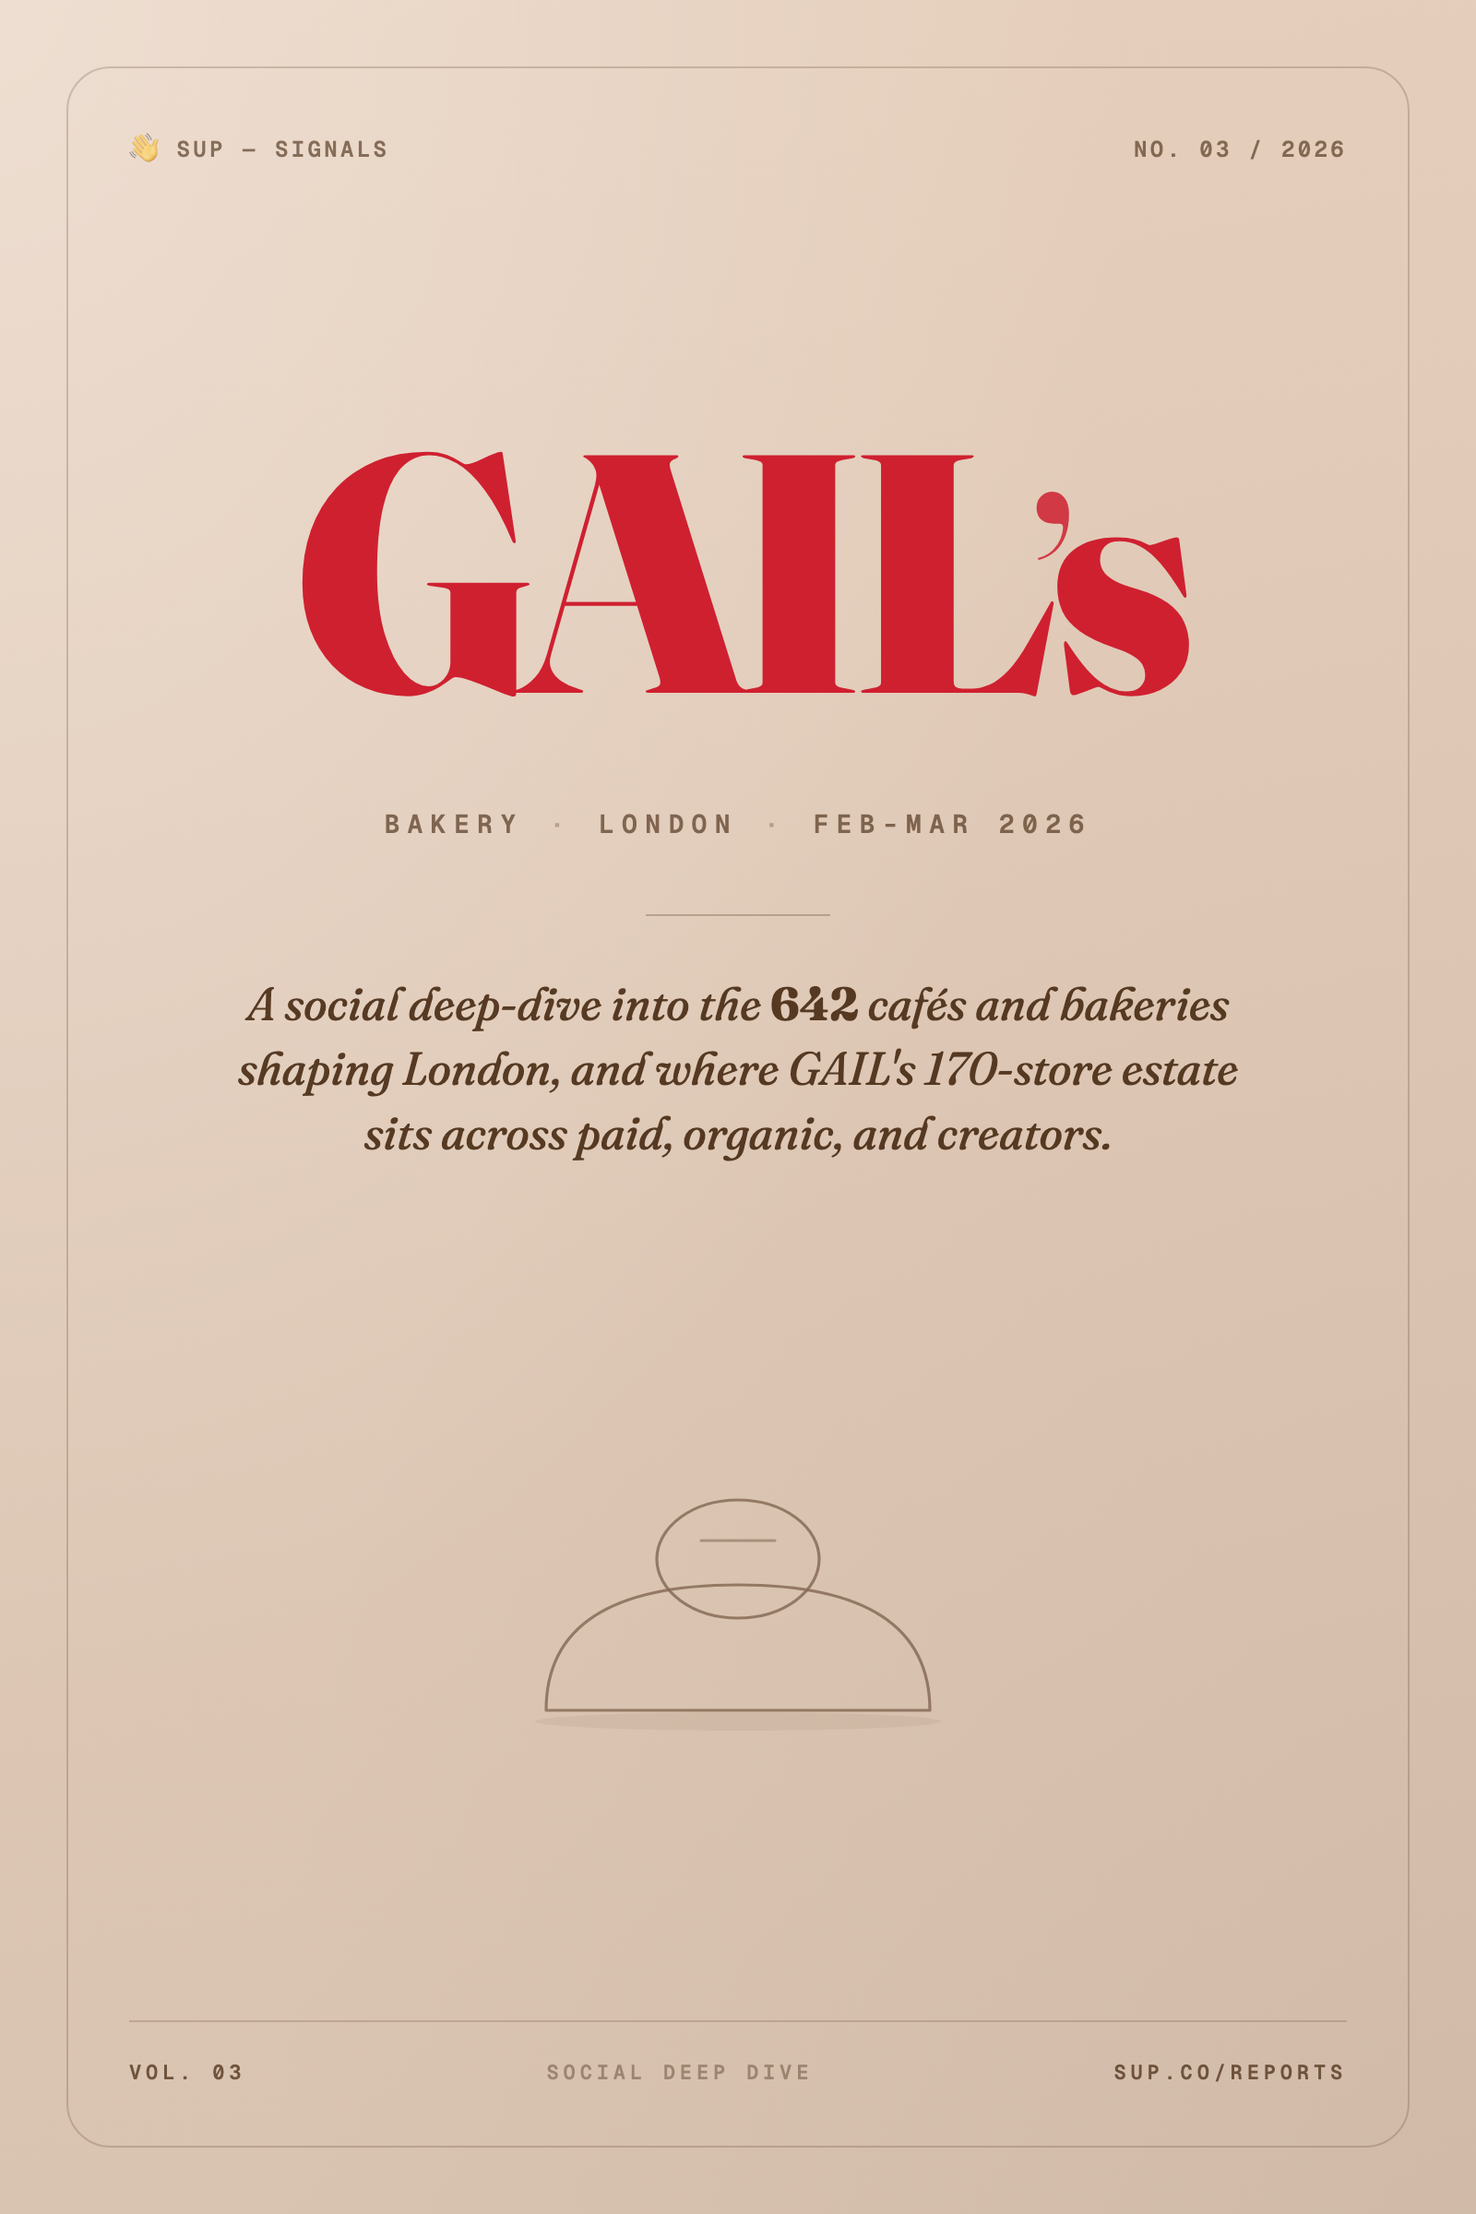
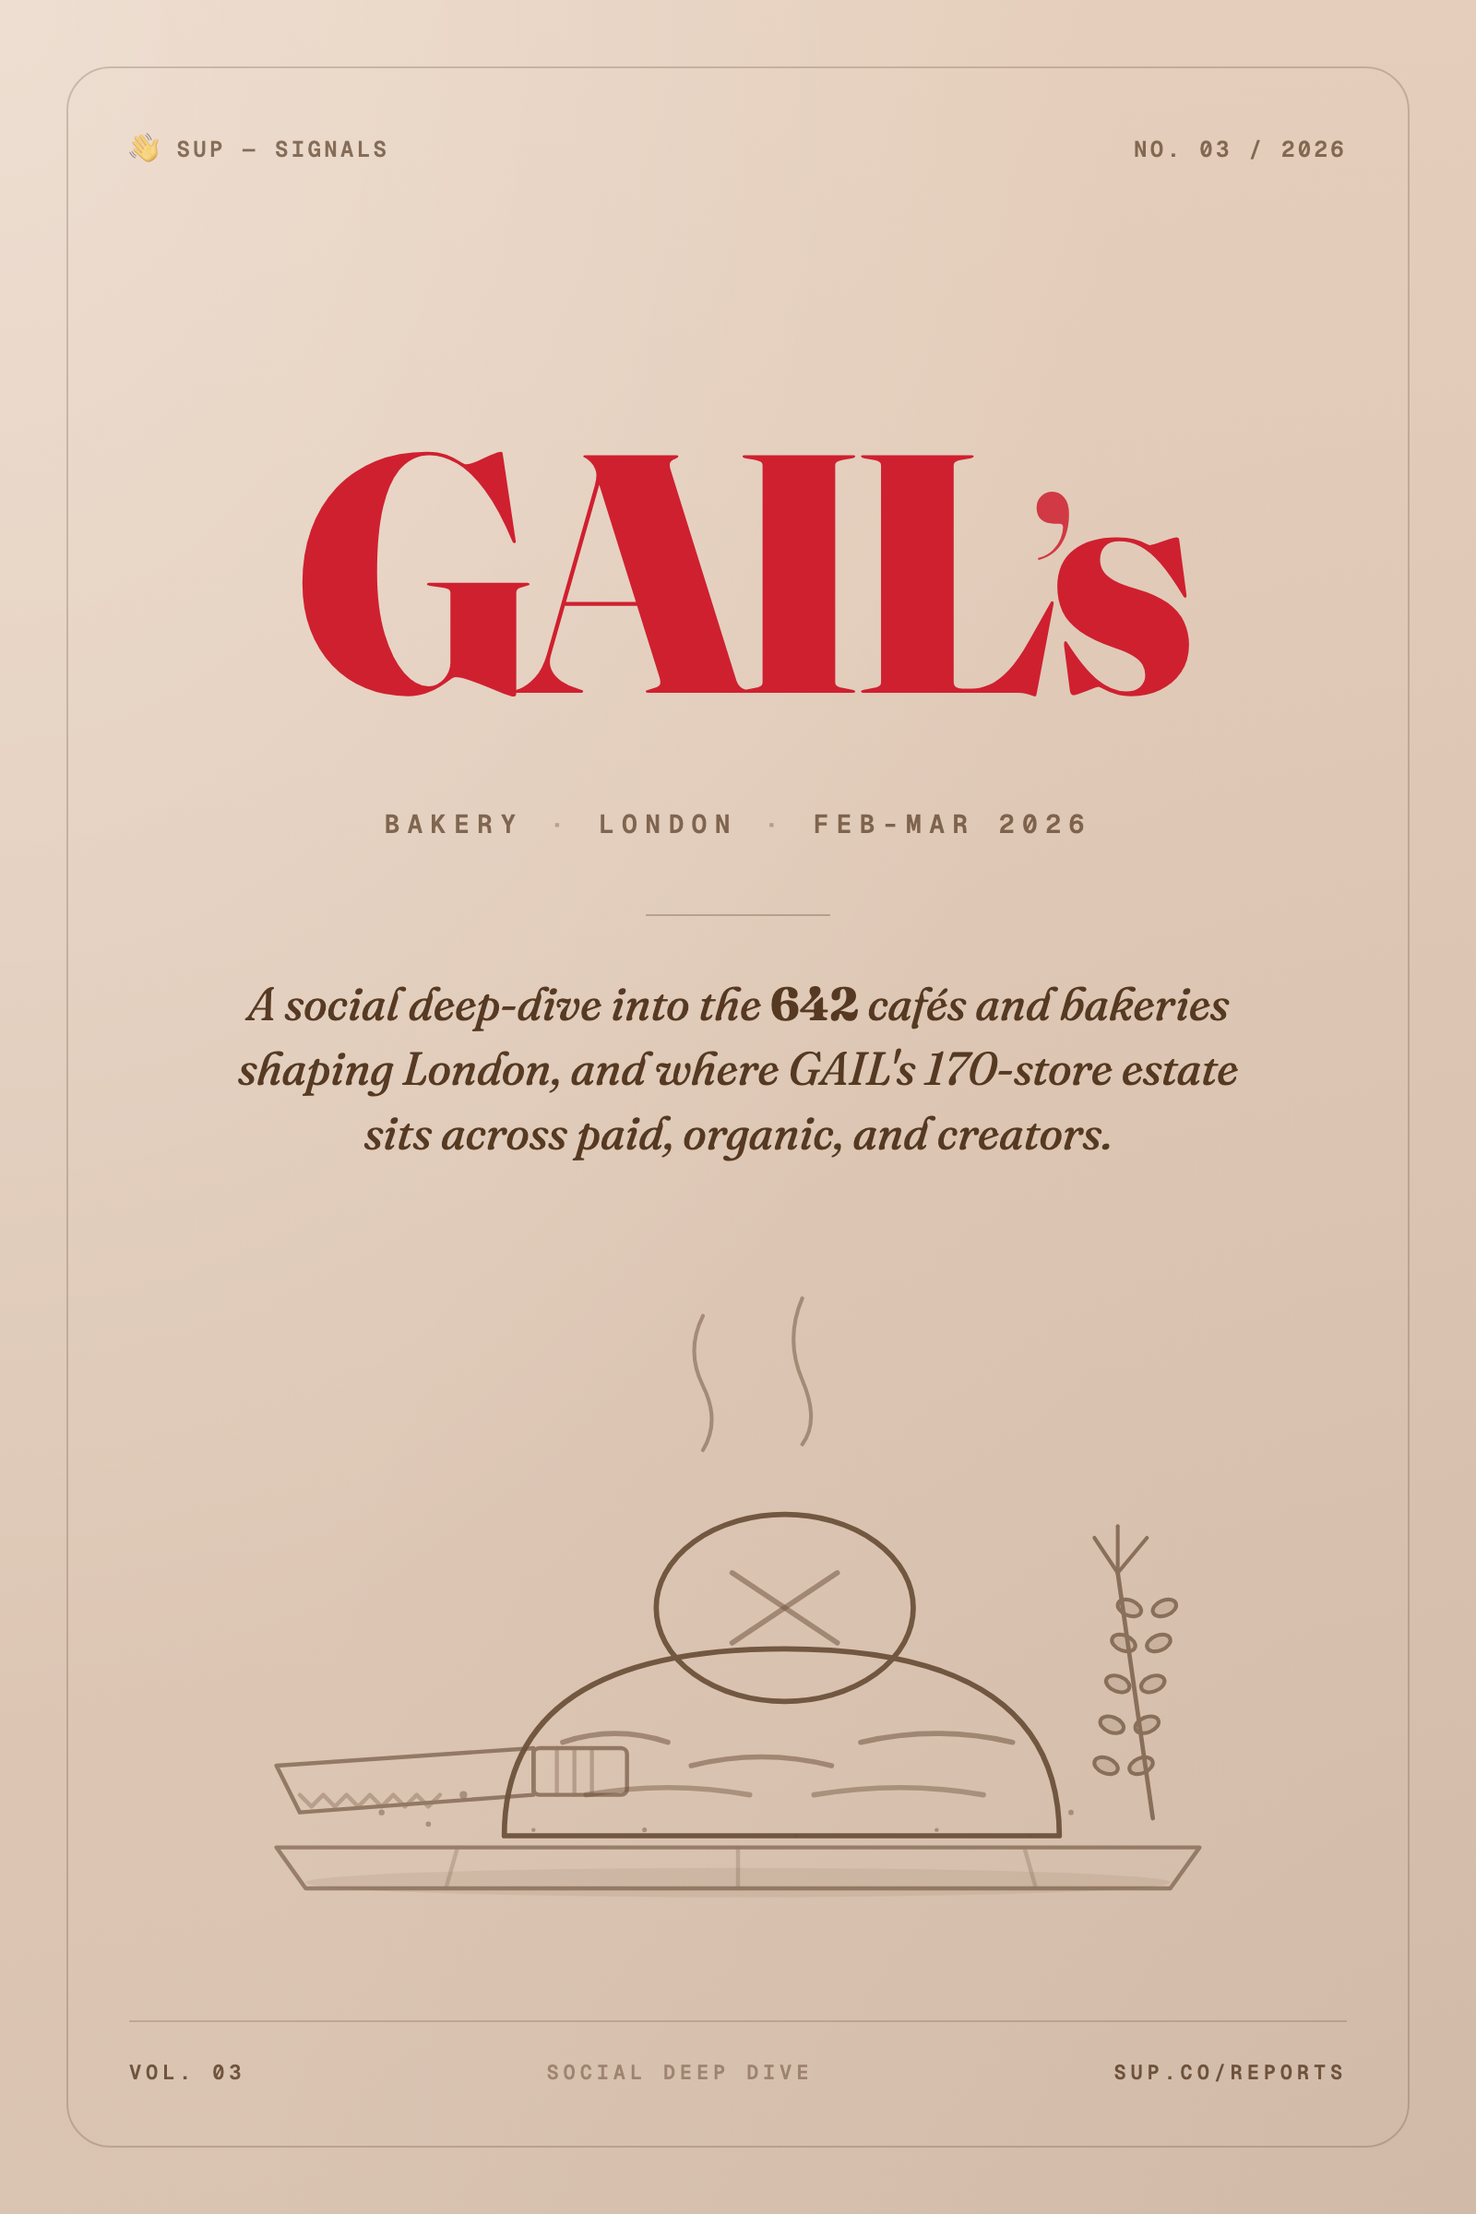
covers: richer hero illustrations, 1.5x size, brand-matched variants
Re-renders bunsfromhome / gails / hamburgerhelper covers with the new
sup-audit-5 illustration system:

- Bakeries → adds 'Bun cluster' variant (3 buns + sesame + maritozzo
  cream split + steam + board) — replaces hash-picked 'Sourdough' for
  Buns From Home
- Bakeries → 'Cottage loaf' enriched (cross-score, ear marks, wheat
  sprig, bread knife, board, flour dust, steam)
- Bakeries → 'Sourdough' enriched (single boule with cross-score, props)
- Boxed Meal Kits → 'Skillet' enriched (cast-iron pan with noodles,
  cheese melt, beef chunks, fork with twirled spaghetti, steam,
  rivets) — replaces hash-picked 'Spoon' for Hamburger Helper
- wordmark-hero template: evidence SVG width 360 -> 570 (1.5x), opacity
  0.55 -> 0.72

Changed region(s): [[0.1875, 0.6562, 0.7188, 0.875], [0.75, 0.6875, 0.8125, 0.8125], [0.7812, 0.8125, 0.8125, 0.8438]]

diff --git a/reports/bunsfromhome/2026/may/cover.html b/reports/bunsfromhome/2026/may/cover.html
@@ -1,9 +1,9 @@
-<!-- sup-report-meta: subcategory="Bakeries" palette="rose" evidence_variant="Sourdough" brand_slug="bunsfromhome" year="2026" month_lower="may" layout="wordmark-hero" -->
+<!-- sup-report-meta: subcategory="Bakeries" palette="rose" evidence_variant="Bun cluster" brand_slug="bunsfromhome" year="2026" month_lower="may" layout="wordmark-hero" -->
 <!DOCTYPE html>
 <html lang="en">
 <head>
 <meta charset="UTF-8">
-<title>Buns From Home &mdash; Sup Signal Report cover</title>
+<title>Buns from Home &mdash; Sup Signal Report cover</title>
 <link rel="preconnect" href="https://fonts.googleapis.com">
 <link rel="preconnect" href="https://fonts.gstatic.com" crossorigin>
 <link href="https://fonts.googleapis.com/css2?family=Fraunces:ital,opsz,wght@0,9..144,400;0,9..144,500;0,9..144,700;0,9..144,900;1,9..144,400;1,9..144,500&family=Geist+Mono:wght@400;500;600&display=swap" rel="stylesheet">
@@ -116,12 +116,12 @@
     display: flex;
     align-items: center;
     justify-content: center;
-    padding: 36px 0 16px;
+    padding: 24px 0 12px;
   }
   .evidence svg {
-    width: 360px;
+    width: 570px;
     height: auto;
-    opacity: 0.55;
+    opacity: 0.72;
   }
 
   .bottom-rule {
@@ -162,7 +162,7 @@
 
       <div class="deck">A social deep-dive into the <span class="num">664</span> cafés, coffee shops and bakeries shaping London — and where Buns From Home really sits inside it.</div>
 
-      <div class="evidence"><svg xmlns='http://www.w3.org/2000/svg' viewBox='0 0 360 180' fill='none'><g stroke='#4A1C30' stroke-width='1.6' stroke-linecap='round' stroke-linejoin='round'><ellipse cx='180' cy='140' rx='150' ry='7' fill='#4A1C30' opacity='0.10' stroke='none'/><path d='M 32 132 C 38 60, 115 30, 180 30 C 245 30, 322 60, 328 132 Z' opacity='0.85'/><path d='M 32 132 Q 180 154, 328 132' opacity='0.85'/><path d='M 100 55 Q 130 46, 168 44' opacity='0.7'/><path d='M 110 78 Q 150 67, 200 64' opacity='0.7'/><path d='M 130 100 Q 180 88, 230 88' opacity='0.7'/></g><g fill='#4A1C30' opacity='0.45'><circle cx='50' cy='150' r='1.4'/><circle cx='68' cy='154' r='1'/><circle cx='86' cy='152' r='0.9'/><circle cx='278' cy='153' r='1.1'/><circle cx='296' cy='150' r='0.9'/><circle cx='312' cy='154' r='1.0'/></g></svg></div>
+      <div class="evidence"><svg xmlns='http://www.w3.org/2000/svg' viewBox='0 0 360 220' fill='none'><g stroke='#4A1C30' stroke-width='1.4' stroke-linecap='round' fill='none' opacity='0.55'><path d='M 96 24 Q 90 36, 96 48 Q 102 60, 96 72'/><path d='M 178 12 Q 172 26, 178 40 Q 184 54, 178 68'/><path d='M 260 24 Q 254 36, 260 48 Q 266 60, 260 72'/></g><ellipse cx='180' cy='208' rx='150' ry='5' fill='#4A1C30' opacity='0.10'/><g stroke='#4A1C30' stroke-width='1.4' stroke-linecap='round' stroke-linejoin='round' fill='none' opacity='0.6'><path d='M 24 194 L 336 194 L 326 208 L 34 208 Z'/><line x1='84' y1='194' x2='80' y2='208' opacity='0.4'/><line x1='148' y1='194' x2='146' y2='208' opacity='0.4'/><line x1='216' y1='194' x2='220' y2='208' opacity='0.4'/><line x1='282' y1='194' x2='286' y2='208' opacity='0.4'/></g><g stroke='#4A1C30' stroke-width='1.7' stroke-linecap='round' stroke-linejoin='round' fill='none' opacity='0.92'><path d='M 38 192 Q 38 116, 108 116 Q 174 116, 174 192 Z'/><path d='M 56 142 Q 90 132, 130 134' opacity='0.55'/><path d='M 60 162 Q 100 154, 150 158' opacity='0.45'/><path d='M 122 192 Q 122 110, 196 110 Q 262 110, 262 192 Z'/><path d='M 134 162 Q 192 150, 252 162' stroke-width='2.2'/><path d='M 138 168 Q 190 158, 248 168' opacity='0.50' stroke-dasharray='2.5 2.5'/><path d='M 218 192 Q 218 116, 288 116 Q 332 116, 332 192 Z'/><path d='M 234 142 Q 268 134, 314 138' opacity='0.55'/><path d='M 234 162 Q 270 156, 318 160' opacity='0.45'/></g><g fill='#4A1C30' opacity='0.75' stroke='none'><ellipse cx='66' cy='128' rx='2' ry='1.2'/><ellipse cx='84' cy='122' rx='2' ry='1.2'/><ellipse cx='104' cy='124' rx='2' ry='1.2'/><ellipse cx='124' cy='122' rx='2' ry='1.2'/><ellipse cx='144' cy='128' rx='2' ry='1.2'/><ellipse cx='76' cy='140' rx='2' ry='1.2'/><ellipse cx='118' cy='140' rx='2' ry='1.2'/><ellipse cx='234' cy='128' rx='2' ry='1.2'/><ellipse cx='254' cy='122' rx='2' ry='1.2'/><ellipse cx='276' cy='124' rx='2' ry='1.2'/><ellipse cx='298' cy='122' rx='2' ry='1.2'/><ellipse cx='318' cy='128' rx='2' ry='1.2'/><ellipse cx='266' cy='140' rx='2' ry='1.2'/><ellipse cx='306' cy='140' rx='2' ry='1.2'/></g><g fill='#4A1C30' opacity='0.45' stroke='none'><circle cx='40' cy='216' r='1.1'/><circle cx='54' cy='220' r='0.8'/><circle cx='70' cy='218' r='0.9'/><circle cx='190' cy='218' r='1.0'/><circle cx='208' cy='220' r='0.7'/><circle cx='314' cy='216' r='1.0'/><circle cx='298' cy='218' r='0.8'/></g></svg></div>
 
       <div class="bottom-rule"></div>
       <div class="footer">

diff --git a/reports/gails/2026/may/cover.html b/reports/gails/2026/may/cover.html
@@ -116,12 +116,12 @@
     display: flex;
     align-items: center;
     justify-content: center;
-    padding: 36px 0 16px;
+    padding: 24px 0 12px;
   }
   .evidence svg {
-    width: 360px;
+    width: 570px;
     height: auto;
-    opacity: 0.55;
+    opacity: 0.72;
   }
 
   .bottom-rule {
@@ -162,7 +162,7 @@
 
       <div class="deck">A social deep-dive into the <span class="num">642</span> cafés and bakeries shaping London, and where GAIL&#x27;s 170-store estate sits across paid, organic, and creators.</div>
 
-      <div class="evidence"><svg xmlns='http://www.w3.org/2000/svg' viewBox='0 0 360 180' fill='none'><g stroke='#43260E' stroke-width='1.6' stroke-linecap='round' stroke-linejoin='round'><ellipse cx='180' cy='154' rx='110' ry='5' fill='#43260E' opacity='0.10' stroke='none'/><path d='M 76 148 Q 76 80, 180 80 Q 284 80, 284 148 Z' opacity='0.85'/><ellipse cx='180' cy='66' rx='44' ry='32' opacity='0.85'/><path d='M 160 56 L 200 56' opacity='0.6'/></g></svg></div>
+      <div class="evidence"><svg xmlns='http://www.w3.org/2000/svg' viewBox='0 0 360 220' fill='none'><g stroke='#43260E' stroke-width='1.3' stroke-linecap='round' fill='none' opacity='0.50'><path d='M 168 14 Q 162 26, 168 38 Q 174 50, 168 60'/><path d='M 202 8 Q 196 22, 202 36 Q 208 50, 202 58'/></g><ellipse cx='180' cy='208' rx='148' ry='5' fill='#43260E' opacity='0.10'/><g stroke='#43260E' stroke-width='1.4' stroke-linecap='round' stroke-linejoin='round' fill='none' opacity='0.6'><path d='M 22 196 L 338 196 L 328 210 L 32 210 Z'/><line x1='84' y1='196' x2='80' y2='210' opacity='0.4'/><line x1='180' y1='196' x2='180' y2='210' opacity='0.4'/><line x1='278' y1='196' x2='282' y2='210' opacity='0.4'/></g><g stroke='#43260E' stroke-width='1.4' stroke-linecap='round' stroke-linejoin='round' fill='none' opacity='0.65'><path d='M 22 168 L 110 162 L 110 178 L 30 184 Z'/><rect x='110' y='162' width='32' height='16' rx='2'/><line x1='118' y1='162' x2='118' y2='178' opacity='0.5'/><line x1='124' y1='162' x2='124' y2='178' opacity='0.5'/><line x1='130' y1='162' x2='130' y2='178' opacity='0.5'/><path d='M 30 178 L 34 182 L 38 178 L 42 182 L 46 178 L 50 182 L 54 178 L 58 182 L 62 178 L 66 182 L 70 178 L 74 182 L 78 178' opacity='0.5'/></g><g stroke='#43260E' stroke-width='1.8' stroke-linecap='round' stroke-linejoin='round' fill='none' opacity='0.95'><path d='M 100 192 Q 100 128, 196 128 Q 290 128, 290 192 Z'/><ellipse cx='196' cy='114' rx='44' ry='32'/><path d='M 178 102 L 214 126' opacity='0.55'/><path d='M 214 102 L 178 126' opacity='0.55'/><path d='M 120 160 Q 138 154, 156 160' opacity='0.55'/><path d='M 164 168 Q 188 162, 212 168' opacity='0.55'/><path d='M 222 160 Q 248 154, 274 160' opacity='0.55'/><path d='M 128 178 Q 156 173, 184 178' opacity='0.45'/><path d='M 206 178 Q 236 173, 264 178' opacity='0.45'/></g><g stroke='#43260E' stroke-width='1.3' stroke-linecap='round' fill='none' opacity='0.72'><line x1='322' y1='186' x2='310' y2='102' stroke-width='1.5'/><ellipse cx='318' cy='168' rx='4.2' ry='2.6' transform='rotate(-22 318 168)' fill='#43260E' fill-opacity='0.18'/><ellipse cx='306' cy='168' rx='4.2' ry='2.6' transform='rotate(22 306 168)' fill='#43260E' fill-opacity='0.18'/><ellipse cx='320' cy='154' rx='4.2' ry='2.6' transform='rotate(-22 320 154)' fill='#43260E' fill-opacity='0.18'/><ellipse cx='308' cy='154' rx='4.2' ry='2.6' transform='rotate(22 308 154)' fill='#43260E' fill-opacity='0.18'/><ellipse cx='322' cy='140' rx='4.2' ry='2.6' transform='rotate(-22 322 140)' fill='#43260E' fill-opacity='0.18'/><ellipse cx='310' cy='140' rx='4.2' ry='2.6' transform='rotate(22 310 140)' fill='#43260E' fill-opacity='0.18'/><ellipse cx='324' cy='126' rx='4.2' ry='2.6' transform='rotate(-22 324 126)' fill='#43260E' fill-opacity='0.18'/><ellipse cx='312' cy='126' rx='4.2' ry='2.6' transform='rotate(22 312 126)' fill='#43260E' fill-opacity='0.18'/><ellipse cx='326' cy='114' rx='4.2' ry='2.6' transform='rotate(-22 326 114)' fill='#43260E' fill-opacity='0.18'/><ellipse cx='314' cy='114' rx='4.2' ry='2.6' transform='rotate(22 314 114)' fill='#43260E' fill-opacity='0.18'/><line x1='310' y1='102' x2='302' y2='90'/><line x1='310' y1='102' x2='310' y2='86'/><line x1='310' y1='102' x2='320' y2='90'/></g><g fill='#43260E' opacity='0.45' stroke='none'><circle cx='86' cy='178' r='1.3'/><circle cx='74' cy='188' r='0.9'/><circle cx='58' cy='184' r='1.0'/><circle cx='110' cy='190' r='0.7'/><circle cx='148' cy='190' r='0.8'/><circle cx='200' cy='192' r='0.7'/><circle cx='248' cy='190' r='0.7'/><circle cx='294' cy='184' r='0.9'/><circle cx='280' cy='192' r='0.7'/></g></svg></div>
 
       <div class="bottom-rule"></div>
       <div class="footer">

diff --git a/reports/hamburgerhelper/2026/may/cover.html b/reports/hamburgerhelper/2026/may/cover.html
@@ -1,4 +1,4 @@
-<!-- sup-report-meta: subcategory="Boxed Meal Kits" palette="azure" evidence_variant="Spoon" brand_slug="hamburgerhelper" year="2026" month_lower="may" layout="wordmark-hero" -->
+<!-- sup-report-meta: subcategory="Boxed Meal Kits" palette="azure" evidence_variant="Skillet" brand_slug="hamburgerhelper" year="2026" month_lower="may" layout="wordmark-hero" -->
 <!DOCTYPE html>
 <html lang="en">
 <head>
@@ -116,12 +116,12 @@
     display: flex;
     align-items: center;
     justify-content: center;
-    padding: 36px 0 16px;
+    padding: 24px 0 12px;
   }
   .evidence svg {
-    width: 360px;
+    width: 570px;
     height: auto;
-    opacity: 0.55;
+    opacity: 0.72;
   }
 
   .bottom-rule {
@@ -162,7 +162,7 @@
 
       <div class="deck">A signal report on Hamburger Helper, the <span class="num">57</span>-brand boxed meal kit category, and the creator strategies competitors are running.</div>
 
-      <div class="evidence"><svg xmlns='http://www.w3.org/2000/svg' viewBox='0 0 360 180' fill='none'><ellipse cx='180' cy='160' rx='65' ry='4' fill='#102842' opacity='0.18'/><g stroke='#102842' stroke-width='1.6' stroke-linecap='round' stroke-linejoin='round' fill='none' opacity='0.75'><ellipse cx='195' cy='62' rx='28' ry='20' transform='rotate(20 195 62)'/><line x1='178' y1='78' x2='115' y2='148' stroke-width='1.8'/><path d='M180 55 Q195 45, 210 55' opacity='0.45'/><line x1='180' y1='65' x2='208' y2='65' opacity='0.4'/></g></svg></div>
+      <div class="evidence"><svg xmlns='http://www.w3.org/2000/svg' viewBox='0 0 360 220' fill='none'><g stroke='#102842' stroke-width='1.4' stroke-linecap='round' fill='none' opacity='0.55'><path d='M 124 22 Q 118 34, 124 46 Q 130 58, 124 70'/><path d='M 168 10 Q 162 24, 168 38 Q 174 52, 168 64'/><path d='M 212 22 Q 206 34, 212 46 Q 218 58, 212 70'/></g><ellipse cx='160' cy='206' rx='130' ry='6' fill='#102842' opacity='0.10'/><g stroke='#102842' stroke-width='1.7' stroke-linecap='round' stroke-linejoin='round' fill='none' opacity='0.92'><ellipse cx='160' cy='112' rx='104' ry='28'/><path d='M 56 112 Q 56 188, 160 196 Q 264 188, 264 112'/><ellipse cx='160' cy='112' rx='94' ry='22' opacity='0.50'/><path d='M 264 114 L 336 96' stroke-width='2.6'/><path d='M 264 122 L 336 104' stroke-width='2.6'/><path d='M 330 92 L 348 88 L 346 108 L 332 110 Z' transform='rotate(-10 339 99)'/></g><g fill='#102842' opacity='0.7' stroke='none'><circle cx='278' cy='114' r='1.8'/><circle cx='298' cy='110' r='1.8'/><circle cx='318' cy='106' r='1.8'/></g><g stroke='#102842' stroke-width='1.5' stroke-linecap='round' fill='none' opacity='0.78'><path d='M 80 100 Q 100 78, 130 92 Q 158 108, 150 86 Q 144 70, 172 78'/><path d='M 96 116 Q 130 96, 168 110 Q 206 124, 226 104 Q 240 90, 232 78'/><path d='M 70 124 Q 102 138, 138 126 Q 178 112, 204 124 Q 230 134, 250 124'/><path d='M 84 138 Q 122 146, 168 136 Q 212 126, 248 138'/></g><g fill='#102842' stroke='none' opacity='0.42'><ellipse cx='108' cy='98' rx='6' ry='3.2'/><ellipse cx='162' cy='90' rx='7' ry='3.8'/><ellipse cx='208' cy='100' rx='5' ry='2.8'/><ellipse cx='138' cy='108' rx='4' ry='2.4'/><ellipse cx='190' cy='118' rx='4' ry='2.4'/></g><g stroke='#102842' stroke-width='1.3' fill='none' opacity='0.7'><rect x='102' y='122' width='12' height='7' rx='1.8' transform='rotate(-10 108 125)'/><rect x='148' y='128' width='12' height='7' rx='1.8' transform='rotate(8 154 131)'/><rect x='190' y='124' width='12' height='7' rx='1.8' transform='rotate(-6 196 127)'/><rect x='222' y='130' width='12' height='7' rx='1.8' transform='rotate(12 228 133)'/></g><g stroke='#102842' stroke-width='1.4' stroke-linecap='round' fill='none' opacity='0.55'><path d='M 60 132 Q 56 150, 62 168 Q 68 178, 72 170'/></g><g stroke='#102842' stroke-width='1.6' stroke-linecap='round' fill='none' opacity='0.92'><path d='M 226 104 L 268 22' stroke-width='2.2'/><line x1='222' y1='106' x2='216' y2='124' opacity='0.7'/><line x1='228' y1='102' x2='226' y2='124' opacity='0.7'/><line x1='234' y1='100' x2='236' y2='122' opacity='0.7'/><line x1='240' y1='98' x2='246' y2='120' opacity='0.7'/><ellipse cx='248' cy='62' rx='18' ry='12' transform='rotate(-22 248 62)' fill='#102842' fill-opacity='0.10'/><path d='M 232 58 Q 248 48, 262 62' opacity='0.65'/><path d='M 234 66 Q 250 56, 266 68' opacity='0.65'/><path d='M 238 72 Q 252 62, 266 74' opacity='0.55'/></g></svg></div>
 
       <div class="bottom-rule"></div>
       <div class="footer">
